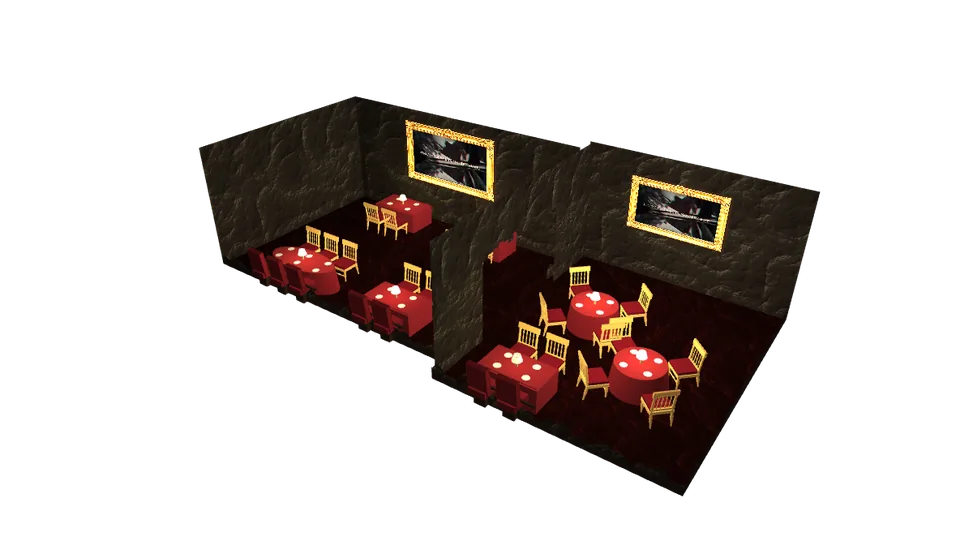
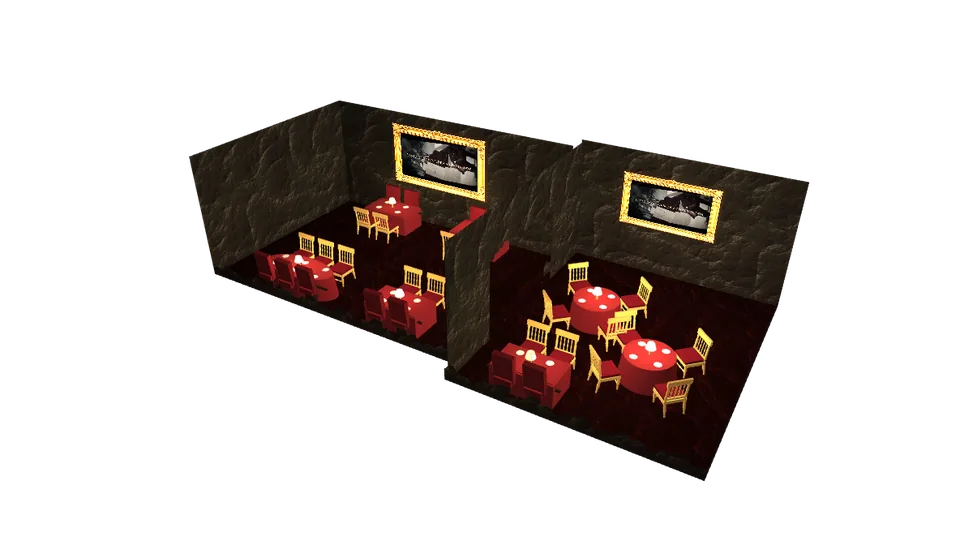
Grotte Napoléon : les fauteuils de cinéma ne traversent plus les murs
Claude-Session: https://claude.ai/code/session_01Tg9JuR8WfKBoHUYi3GMpp1

diff --git a/clients/la-grotte-napoleon/salle.js b/clients/la-grotte-napoleon/salle.js
@@ -101,7 +101,7 @@
   const CHAISES = [], FAUTEUILS = [];
   for (const [x, z, hx, hz] of LONGUES) {
     const n = Math.max(2, Math.round(hz * 2 / .52)), pas = hz * 2 / n, s = x < 0 ? 1 : -1;  /* s : vers l'allée */
-    for (let k = 0; k < n; k++) { const zz = z - hz + pas * (k + .5); CHAISES.push([x + s * (hx + .26), zz, s * Math.PI / 2]); FAUTEUILS.push([x - s * (hx + .2), zz, s]); }
+    for (let k = 0; k < n; k++) { const zz = z - hz + pas * (k + .5); CHAISES.push([x + s * (hx + .26), zz, s * Math.PI / 2]); FAUTEUILS.push([x - s * .22, zz, s]); } /* le fauteuil (0,2 de profondeur) reste devant le mur, qui est à 0,52 du centre de la table */
   }
   for (const [x, z, r] of RONDES) for (let k = 0; k < 4; k++) { const a = k * Math.PI / 2 + Math.PI / 4; CHAISES.push([x + Math.sin(a) * (r + .3), z + Math.cos(a) * (r + .3), a]); }
   /* les assiettes de présentation argentées, une par place, posées sur la nappe */

diff --git a/clients/la-grotte-napoleon/boutique.html b/clients/la-grotte-napoleon/boutique.html
@@ -272,6 +272,6 @@
 
 <script src="produits.js?v=20261102b"></script>
 <script src="textes.js?v=20261102b"></script>
-<script src="grotte.js?v=20261102h"></script>
+<script src="grotte.js?v=20261102i"></script>
 </body>
 </html>

diff --git a/clients/la-grotte-napoleon/panier.html b/clients/la-grotte-napoleon/panier.html
@@ -81,6 +81,6 @@
 
 <script src="produits.js?v=20261102b"></script>
 <script src="textes.js?v=20261102b"></script>
-<script src="grotte.js?v=20261102h"></script>
+<script src="grotte.js?v=20261102i"></script>
 </body>
 </html>

diff --git a/clients/la-grotte-napoleon/produit.html b/clients/la-grotte-napoleon/produit.html
@@ -91,6 +91,6 @@
 
 <script src="produits.js?v=20261102b"></script>
 <script src="textes.js?v=20261102b"></script>
-<script src="grotte.js?v=20261102h"></script>
+<script src="grotte.js?v=20261102i"></script>
 </body>
 </html>

diff --git a/clients/la-grotte-napoleon/reserver.html b/clients/la-grotte-napoleon/reserver.html
@@ -94,6 +94,6 @@
 </div>
 
 <script src="textes.js?v=20261102b"></script>
-<script src="grotte.js?v=20261102h"></script>
+<script src="grotte.js?v=20261102i"></script>
 </body>
 </html>

diff --git a/clients/la-grotte-napoleon/formules.html b/clients/la-grotte-napoleon/formules.html
@@ -147,6 +147,6 @@
 
 
 <script src="textes.js?v=20261102b"></script>
-<script src="grotte.js?v=20261102h"></script>
+<script src="grotte.js?v=20261102i"></script>
 </body>
 </html>

diff --git a/clients/la-grotte-napoleon/index.html b/clients/la-grotte-napoleon/index.html
@@ -205,6 +205,6 @@
 
 
 <script src="textes.js?v=20261102b"></script>
-<script src="grotte.js?v=20261102h"></script>
+<script src="grotte.js?v=20261102i"></script>
 </body>
 </html>

diff --git a/clients/la-grotte-napoleon/NOTES.md b/clients/la-grotte-napoleon/NOTES.md
@@ -76,3 +76,4 @@ Tout ce qui a été fait, décidé ou refusé sur ce site (repris de `ETAT.md` l
 - **Murs nus (2 novembre 2026, demande de l’utilisateur : « enlève tout les trucs genre le mannequin et les trucs au mur »)** : le mannequin en uniforme, les appliques à bougies (et leur lumière) et les rideaux sont retirés de `salle.js` ; sur les murs il ne reste que les cinq écrans à cadre doré. Image de secours refaite. Pages en `grotte.js?v=20261102f`.
 - **Rouges moins criards (2 novembre 2026, demande de l’utilisateur)** : dans `salle.js`, le sol passe en bordeaux sombre, les nappes, les tables rondes, les fauteuils de cinéma et les assises des chaises en rouge vin (moins saturé, un peu de bleu), le rouge renvoyé sur le bas des murs est réduit, et l’or des chaises est plus doux (moins jaune, moins brillant). Image de secours refaite. Pages en `grotte.js?v=20261102g`.
 - **Plus de fenêtre noire (2 novembre 2026, demande de l’utilisateur : « laisse juste la maquette sur le fond du site »)** : la toile WebGL est transparente (`alpha: true`, effacement à alpha 0, brume repoussée, poussière additive avec un alpha qui suit sa lumière pour ne pas faire de carrés) ; dans `grotte.css`, `.salle3d` n’a plus de fond, de cadre, d’ombre ni de masque radial, et l’image fixe s’efface dès que la 3D est prête (sinon elle se voyait à travers la toile). L’image de secours `salle-affiche.webp` est maintenant une capture de la toile seule, à fond transparent (`object-fit: contain`). Pages en `grotte.js?v=20261102h` et `grotte.css?v=20261102c`.
+- **Fauteuils de cinéma hors du mur (2 novembre 2026, signalé par l’utilisateur : « les sièges de cinéma mangent les murs »)** : leur centre était presque sur le mur, ils le traversaient ; ils sont ramenés à 0,22 du centre de la table (le mur est à 0,52), serrés contre le mur sans le toucher. Image de secours refaite. Pages en `grotte.js?v=20261102i`.
